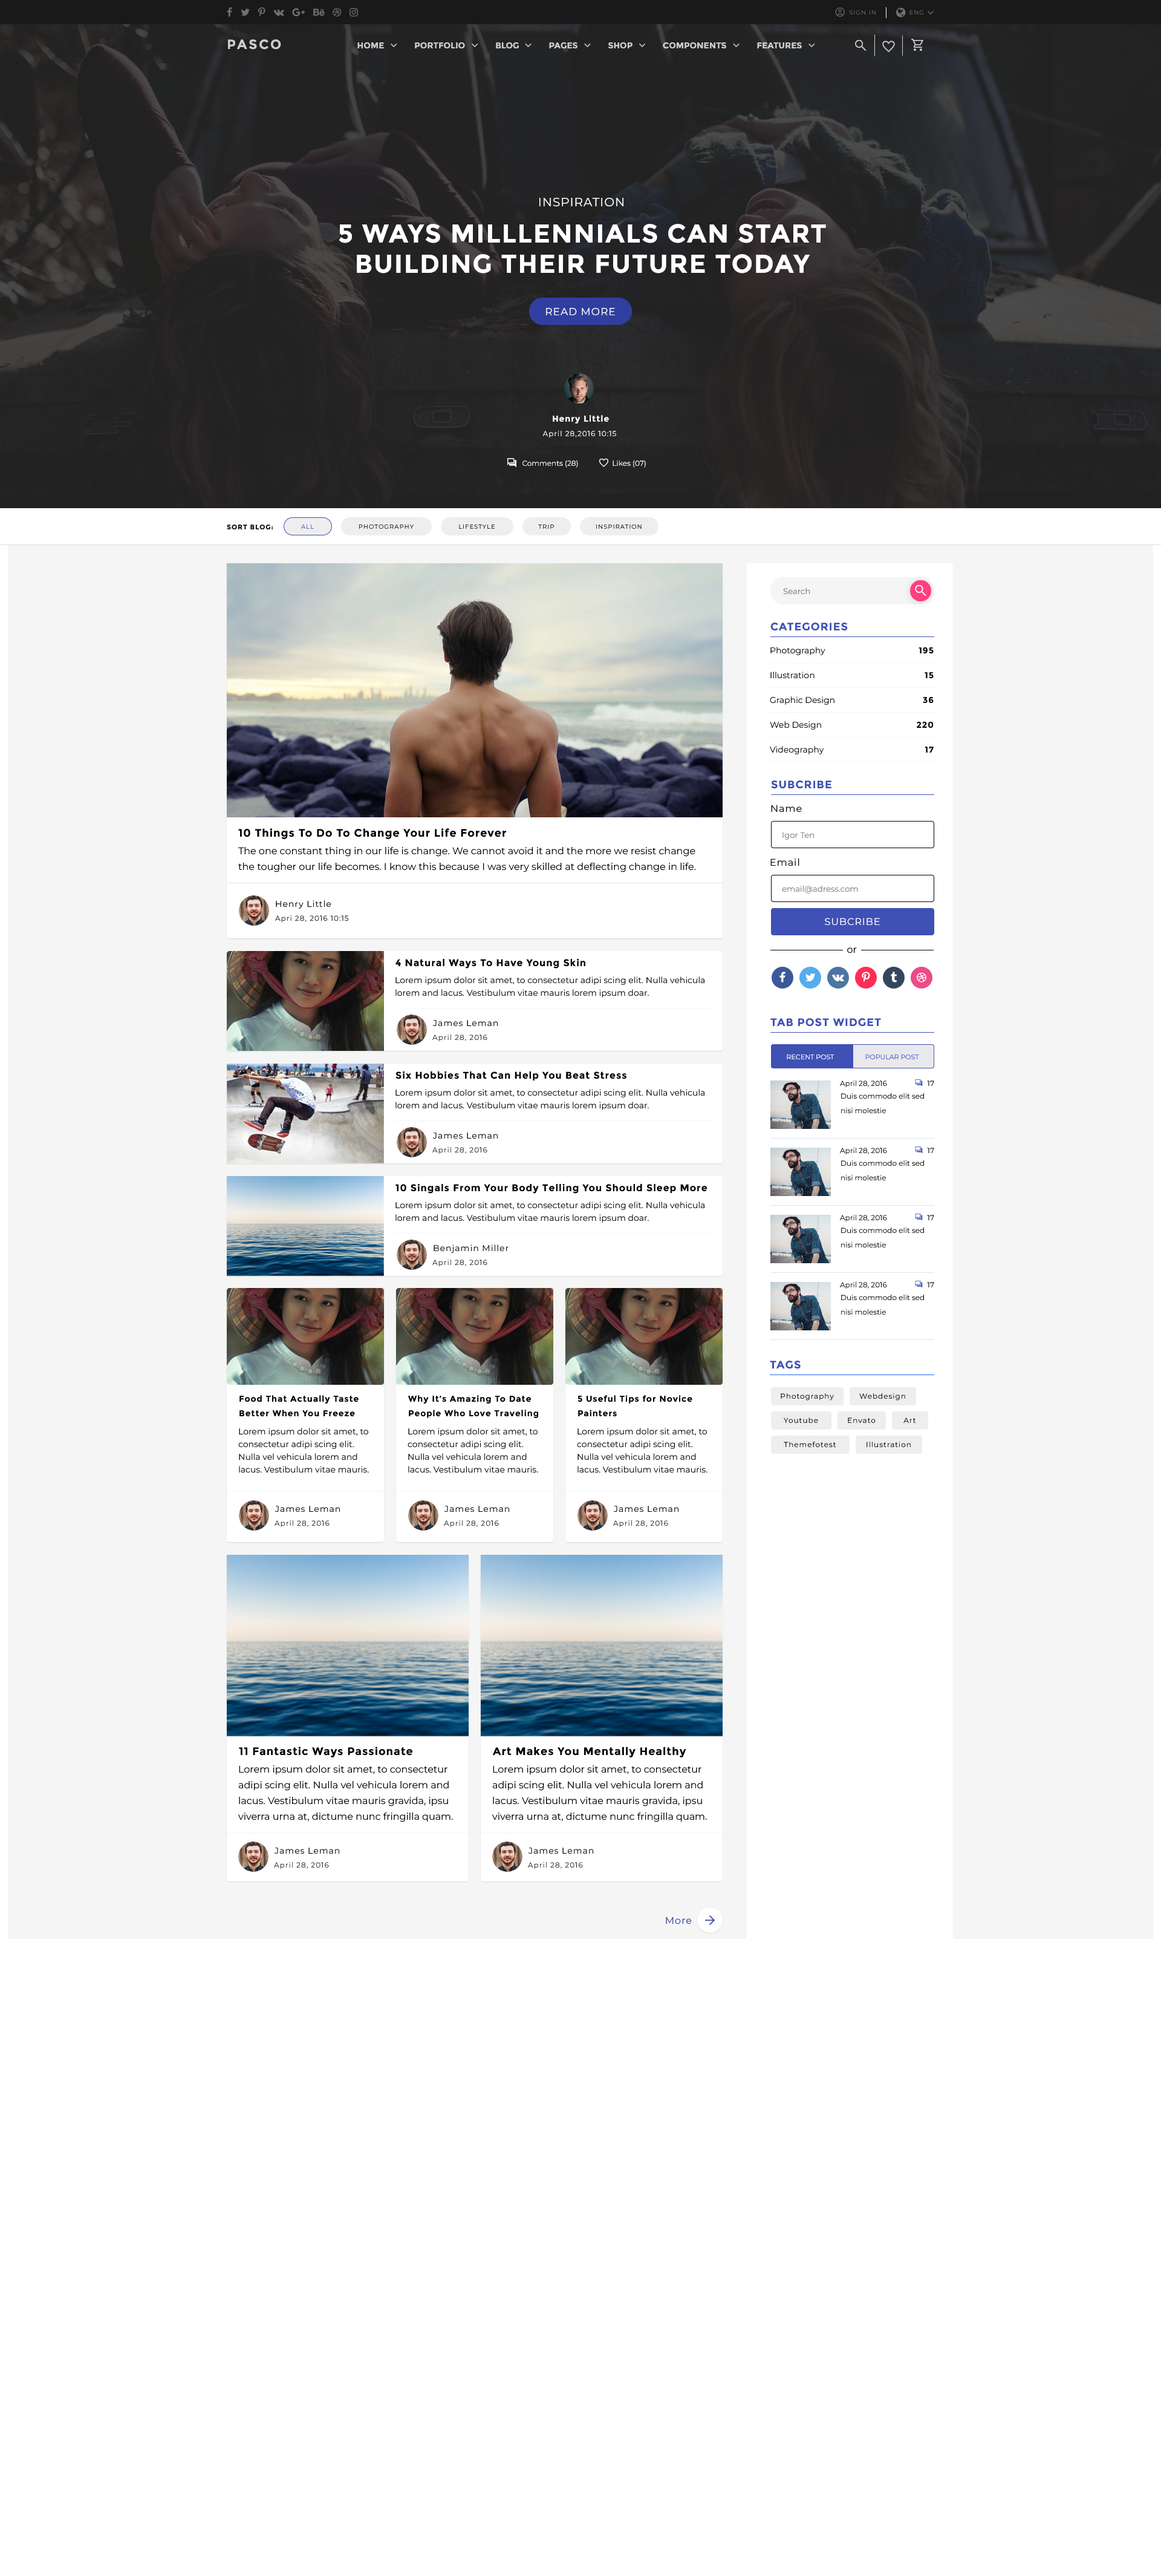
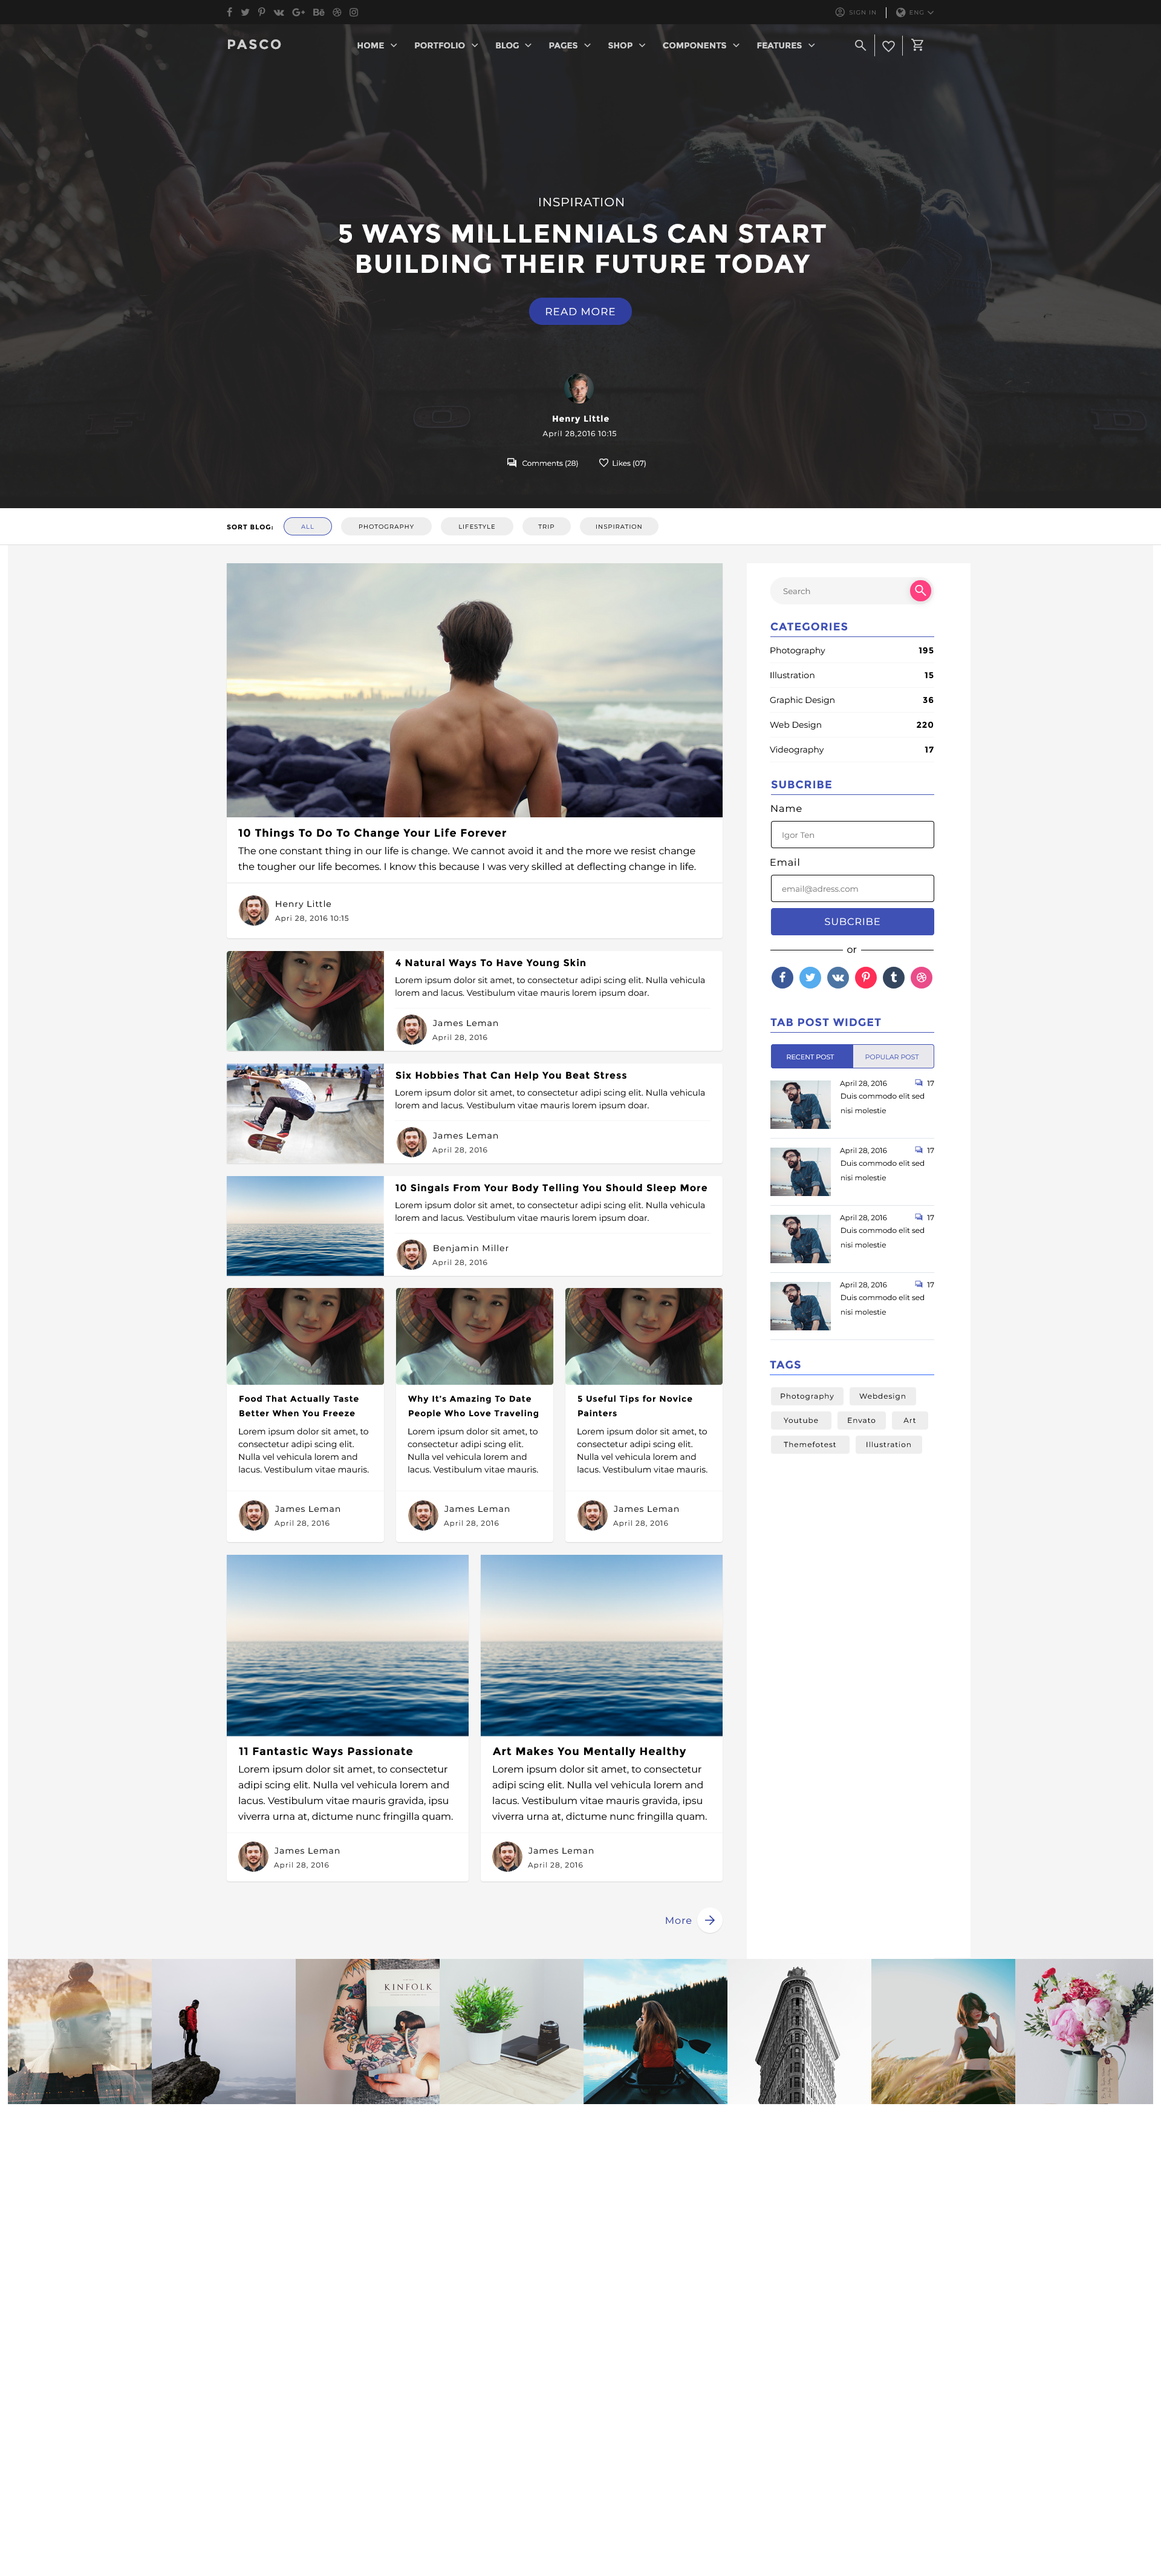
footer insta widget

Changed region(s): [[0.0, 0.7496, 0.7188, 0.8434], [0.75, 0.7496, 1.0, 0.8434]]

diff --git a/index.html b/index.html
@@ -478,7 +478,6 @@
                             </button>
                         </div>
                     </div>
-                    <!-- working -->
                     <div class="right-sidebar">
                         <div class="search">
                             <div class="search-bar">
@@ -677,7 +676,20 @@
                     </div>
                 </div>
             </div>
-            <div class="footer"></div>
+            <div class="footer">
+                <div class="container">
+                    <div class="insta-widget">
+                        <img src="./image/insta/1.png" alt="" />
+                        <img src="./image/insta/2.png" alt="" />
+                        <img src="./image/insta/3.png" alt="" />
+                        <img src="./image/insta/4.png" alt="" />
+                        <img src="./image/insta/5.png" alt="" />
+                        <img src="./image/insta/6.png" alt="" />
+                        <img src="./image/insta/7.png" alt="" />
+                        <img src="./image/insta/8.png" alt="" />
+                    </div>
+                </div>
+            </div>
         </div>
     </body>
 </html>

diff --git a/index.css b/index.css
@@ -364,7 +364,7 @@
     z-index: -1;
     position: absolute;
     background-color: white;
-    width: 38px;
+    width: 5vw;
     height: 2305px;
     background-color: #ffffff;
     margin-left: 1194px;
@@ -373,7 +373,7 @@
 .body-background {
     position: absolute;
     z-index: -2;
-    height: 2305px;
+    height: 2338px;
     width: 98.6vw;
     background-color: #f5f5f5;
 }
@@ -1082,4 +1082,29 @@
     background-color: #eeeeee;
 }
 
-/* !SECTION */ ;
+/* !SECTION */
+
+/* SECTION footer */
+/* insta widget */
+.footer {
+    display: flex;
+    justify-content: center;
+}
+.footer .container {
+    display: flex;
+    justify-content: center;
+}
+
+.footer .insta-widget {
+    display: flex;
+    width: 98.6vw;
+    height: 240px;
+    overflow-y: hidden;
+    overflow-x: scroll;
+    scrollbar-width: none;
+}
+.footer .insta-widget > img {
+    height: 240px;
+}
+
+/* !SECTION */
